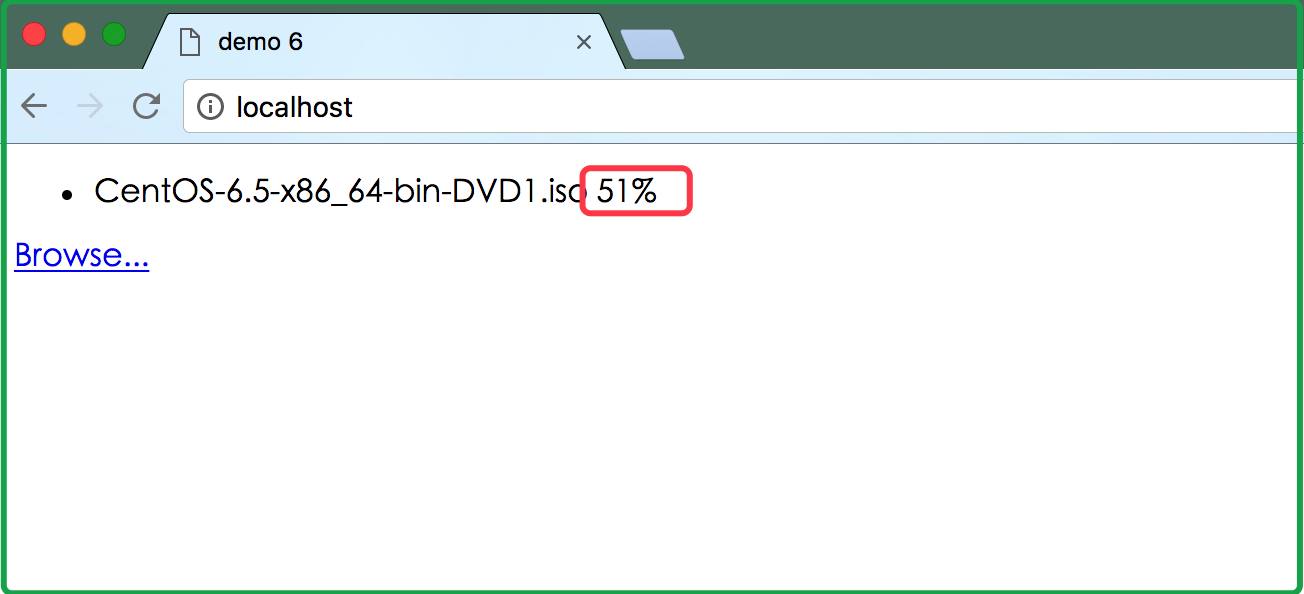
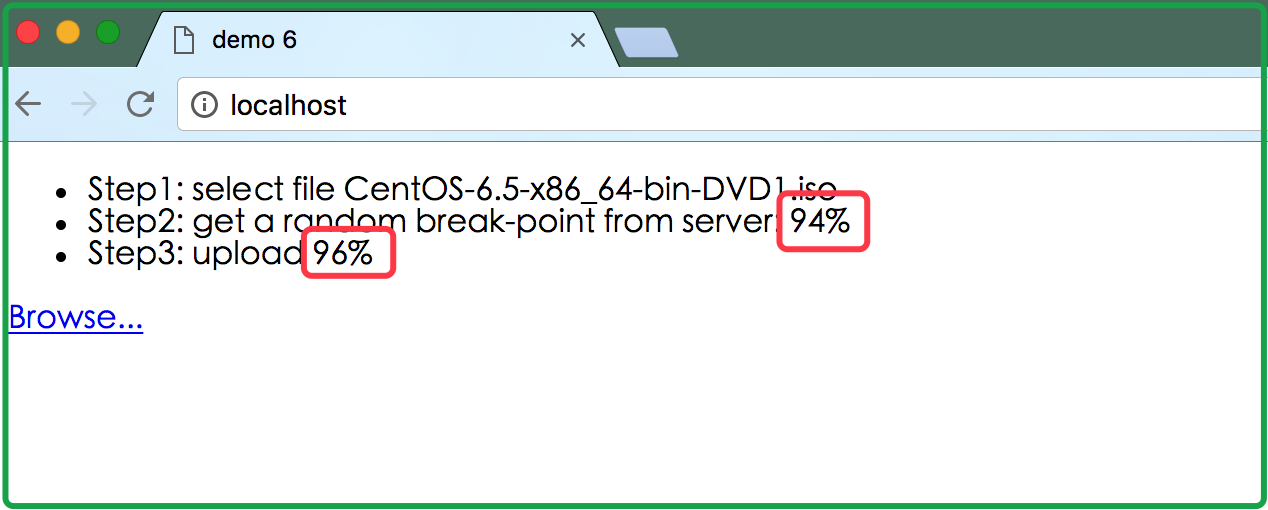
null

Changed region(s): [[0.0, 0.0, 1.0, 1.0]]

diff --git a/demo6/index.html b/demo6/index.html
@@ -31,7 +31,7 @@ function getOffset(files) {
                 files[i].percent = percent;
                 files[i].loaded = parseInt(percent*files[i].size/100);
             }
-            resolve();
+            resolve(percent);
         };
         xhr.open('GET', '/offset');
         xhr.send();
@@ -42,31 +42,31 @@ uploader.bind('FilesAdded', function(up, files) {
     var ulRef = document.getElementById('filelist');
     plupload.each(files, function(file) {
         var liRef = document.createElement("li");
-        liRef.setAttribute('id', file.id);
-        liRef.innerHTML = `<span class="preview"></span>${file.name} <b></b>`;
+        liRef.innerText = 'Step1: select file ' + file.name;
+        ulRef.appendChild(liRef);
 
-        var img = new moxie.image.Image();
-        img.onload = function() {
-            var thumb = liRef.getElementsByClassName('preview');
-            this.embed(thumb[0], {
-                width: "50",
-                height: "50",
-                preserveHeaders: false
-            });
-        };
-        img.load(file.getSource());
+        var liRef = document.createElement("li");
+        liRef.setAttribute('id', file.id+'tip');
+        ulRef.appendChild(liRef);
 
+        var liRef = document.createElement("li");
+        liRef.setAttribute('id', file.id+'progress');
         ulRef.appendChild(liRef);
     });
     getOffset(files)
+    .then(function(percent) {
+        plupload.each(files, function(file) {
+            document.getElementById(file.id+'tip')
+            .innerText = 'Step2: get a random break-point from server: ' + percent + '%';
+        });
+    })
     .then(function() {
         up.start();
     });
 });
 uploader.bind('UploadProgress', function(up, file) {
-    document.getElementById(file.id)
-    .getElementsByTagName('b')[0]
-    .innerHTML = '<span>' + file.percent + "%</span>";
+    document.getElementById(file.id+'progress')
+    .innerText = 'Step3: upload ' + file.percent + "%";
 });
 </script>
 </body>

diff --git a/demo6/server.js b/demo6/server.js
@@ -1,26 +1,17 @@
 /*
 $ node server.js
 or
-$ node server.js 50%
-or 
-$ node server.js 1234 50%
-                  |    |
-                  V    V
-                 port percent
+$ node server.js 1234
+                  |
+                  V 
+                 port
 */
 var http = require("http"),
     url = require("url"),
     path = require("path"),
     fs = require("fs");
 
-var port,percent;
-port = process.argv[2] || '80';
-if(port.indexOf('%') > 0) {
-    percent = port;
-    port = 80;
-}
-percent = percent || process.argv[3] || '0%';
-percent = parseInt(percent);
+var port = process.argv[2] || 80;
 
 function formidable(req, res) {
     // parse a file upload
@@ -69,6 +60,10 @@ function formidable(req, res) {
     });
 }
 
+function getRandom(start, end) {
+    return Math.floor(Math.random() * (end - start)) + start;
+}
+
 var mimeTypes = {
     "htm": "text/html",
     "html": "text/html",
@@ -92,7 +87,7 @@ http.createServer(function(request, response) {
   }
 
   if (request.url == '/offset') {
-      response.end(percent+'');
+      response.end(getRandom(100, 50)+'');
       return;
   }
 
